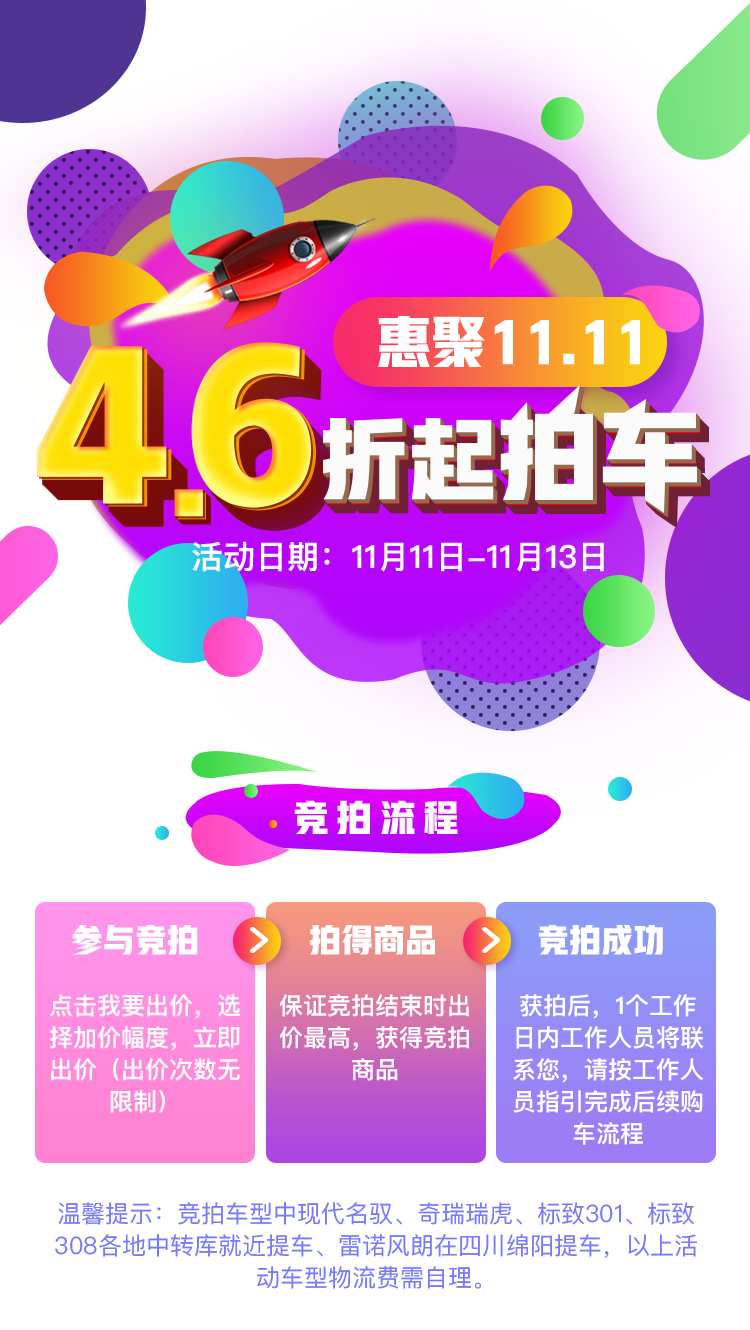
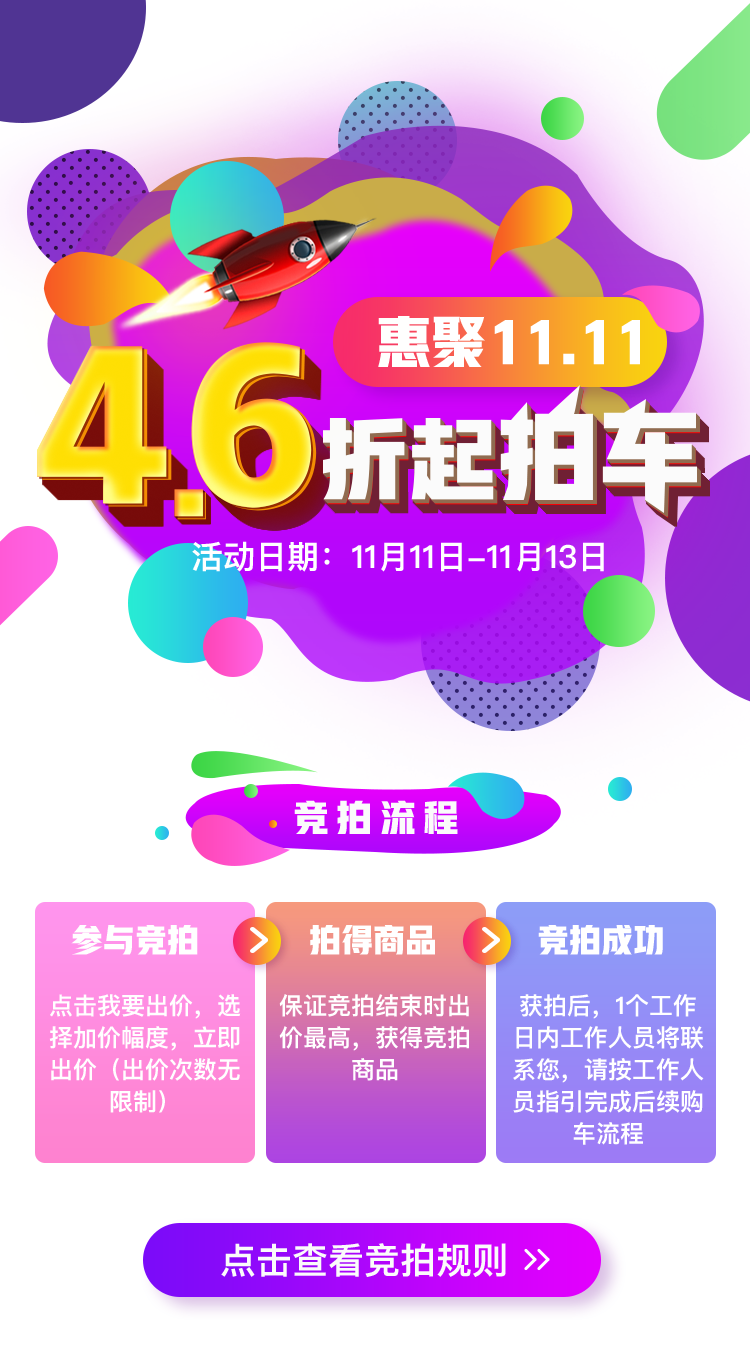
竞拍专题UI完成

diff --git a/src/page/topic/20171111/auction.vue b/src/page/topic/20171111/auction.vue
@@ -1,7 +1,9 @@
 <template>
   <div class="auction-Wrap">
     <header class="auction-header"></header>
-    <div class="auction-banner"></div>
+    <div class="auction-banner">
+      <div class="lookRule" @click.stop="ruleDialog = !ruleDialog"></div>
+    </div>
     <div class="auction-content">
       <nav class="ac-nav">
          <dl>
@@ -99,6 +101,13 @@
       <!--<div class="dialog-close"  @click.stop="sorryDialog = !sorryDialog"><span>×</span></div>-->
     </div>
 
+    <!-- 规则 -->
+    <div class="auction-dialog" v-if="ruleDialog">
+      <div class="auction-dialog-con2">
+        <div class="auction-dialog-wrap"><span @click.stop="ruleDialog = !ruleDialog"></span></div>
+      </div>
+    </div>
+
   </div>
 </template>
 <script>
@@ -128,10 +137,11 @@
         sucessDialog:false, //报价成功弹出窗
         tipsDialog:false,    //报价更新提示
         sorryDialog:false, //还没完成诚意金支付
+        ruleDialog:false, //规则弹窗
         startTime:"2017-11-11",
         endTime:"2017-11-14",
         curIndex:null, //当前日期索引
-        curDate:"2017-11-06", //当前日期
+        curDate:"", //当前日期
         selectAucitonData:100, //竞价默认初始值
         selectAuciton:[100,500,1000], // 竞价区间
         newPrice:null,
@@ -156,7 +166,7 @@
            ele.timer = null;
            if(ele.auction_status == 3){ //正在进行中的车需要倒计时并且一分钟刷一次竞拍数据
              //求最新价，如果已经有竞拍数据，就取第一条，没有的话，就取起拍价
-             that.newPrice = ele.auction_data.length?ele.auction_data[0]["auction_price"]:ele.start_price;
+             that.newPrice = ele.auction_data?ele.auction_data[0]["auction_price"]:ele.start_price;
              var timeEnd = new Date(ele.auction_end_at).getTime();
              var serverTime = new Date(ele.now).getTime();
              that.timeCount  = timeEnd - serverTime;
@@ -191,7 +201,7 @@
            }
            var timeRefresh = new Date(ele.auction_start_at).getTime() - new Date(ele.now).getTime();
            if(timeRefresh>0){
-             seTtimeout(()=>{
+             setTimeout(()=>{
                that.getData(that.curDate);
              },timeRefresh)
            }
@@ -342,7 +352,8 @@
   .auction-Wrap{height:100%;background:#372563;}
   .auction-header{height:1.2rem;background:#27282f;line-height:1.2rem;text-align:center;position:relative}
   .auction-header::before{display:block;content:"";width:0.186rem;height:0.347rem;background:url(../../../assets/lt-icon.png) no-repeat 0 0;background-size:100%;position:absolute;top:50%;left:0.333rem;transform:translateY(-50%);}
-  .auction-banner{background:url(../../../assets/topic-banner1.png) no-repeat 0 0;background-size:100%;height:17.73rem;}
+  .auction-banner{background:url(../../../assets/topic-banner1.png) no-repeat 0 0;background-size:100%;height:18.1rem;position:relative;}
+  .lookRule{height:1rem;position:absolute;left:50%;bottom:0.8rem;width:61%;transform:translateX(-50%)}
   .ac-nav{background:#fff003;text-align:center;font-size:0.4267rem;padding:0.16rem 0;}
   .ac-nav::after{clear:both;display:block;content:""}
   .ac-nav dd{width:33.33%;float:left;line-height:0.853rem;}
@@ -393,6 +404,9 @@
   .ac-nodata span{position:absolute;top:0;left:0;right:0;bottom:0;margin:auto;background:url(../../../assets/topic-pic1.png) no-repeat 0 0;width:4.8rem;height:1.4rem;background-size:100%;}
   .auction-dialog{position:fixed;top:0;left:0;bottom:0;right:0;background:rgba(0,0,0,0.75)}
   .auction-dialog-con{color:#FFF;position:fixed;top:50%;left:50%;transform:translateX(-50%) translateY(-50%);width:7.853rem;height:6.49rem;background:url(../../../assets/topic-banner2.png) no-repeat 0 0;background-size:100%;}
+  .auction-dialog-con2{color:#FFF;position:fixed;top:50%;left:50%;transform:translateX(-50%) translateY(-50%);width:7.853rem;height:10.82rem;background:url(../../../assets/topic-banner3.png) no-repeat 0 0;background-size:100%;}
+  .auction-dialog-wrap{height:100%;position:relative;}
+  .auction-dialog-wrap span{position:absolute;bottom:0.4rem;left:0;width:100%;height:1rem;}
   .auction-dialog-con .dialog-t1{font-size:0.48rem;padding:1.9rem 1.5rem 0;text-align:center;}
   .auction-dialog-con .dialog-t2{text-align:center;padding-top:0.77rem;font-size:0.4rem;position:relative;}
   .auction-dialog-con .dialog-t2 select{display:inline-block;-webkit-appearance:none;border:none;background:#FFF;width:4.18rem;height:1rem;border-radius:0.25rem;color:#d300fc;margin-left:0.13rem;text-indent:0.4rem;}

diff --git a/src/router/index.js b/src/router/index.js
@@ -463,7 +463,7 @@ router.beforeEach((to, from, next) => {
     document.documentElement.scrollTop = 0;
     document.body.scrollTop = 0;
     //如何做登录完了回到某个页面去呢
-    if(to.name=="loading"||to.name=='account'||to.name=='code'||to.name == "auction"){ //不需要登录可以直接跳转的
+    if(to.name=="loading"||to.name=='account'||to.name=='code'||to.name == "auction"){ //不需要登录可以直接跳转的 //专题后面想想能不能单独路由
         next();
     }else if(!!(token&&(to.name=="auth"||to.name=='authResult'||to.name=='aptitude'))){ //需要登录但是不用认证才能进去的页面
         next();
